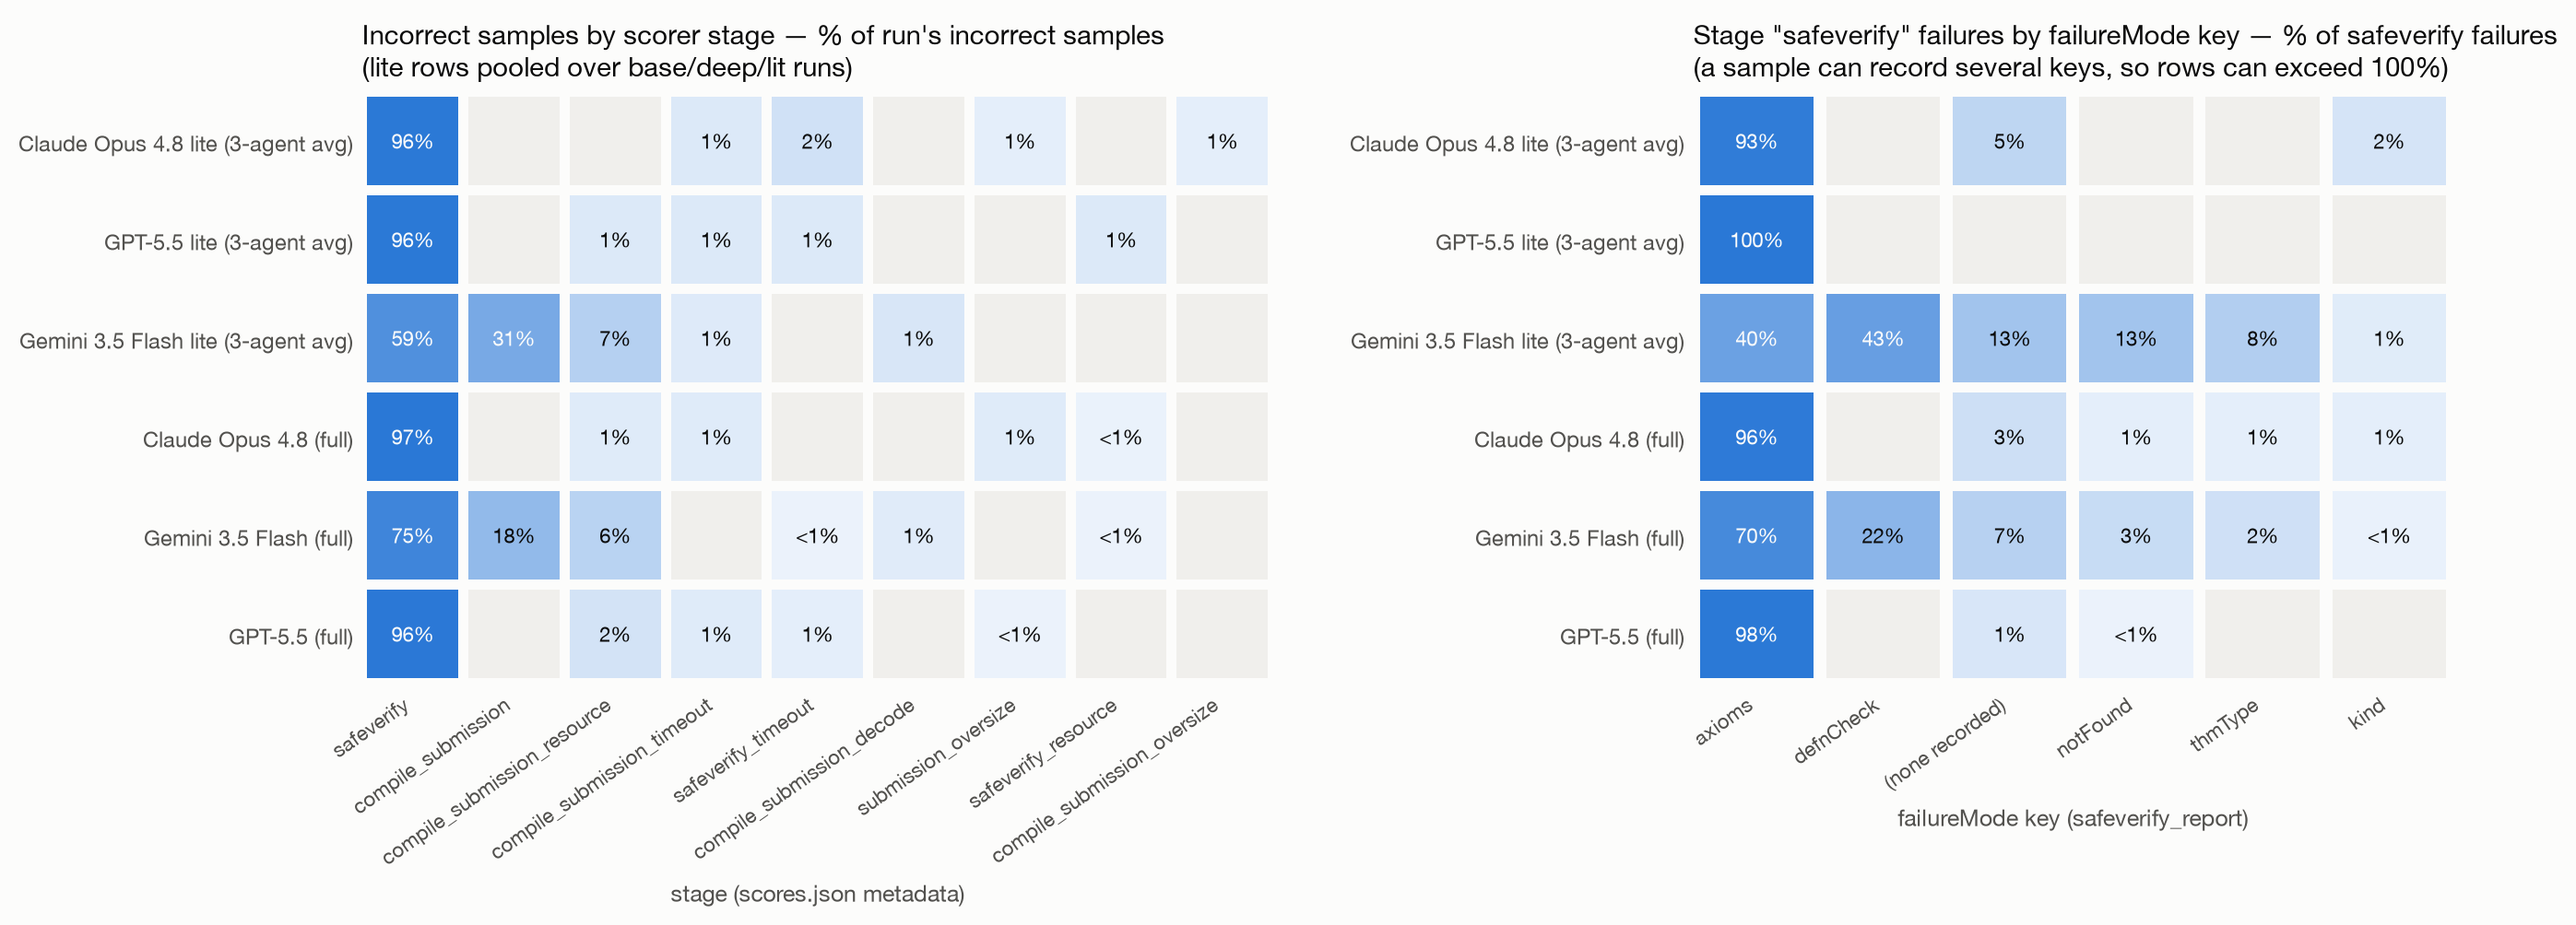
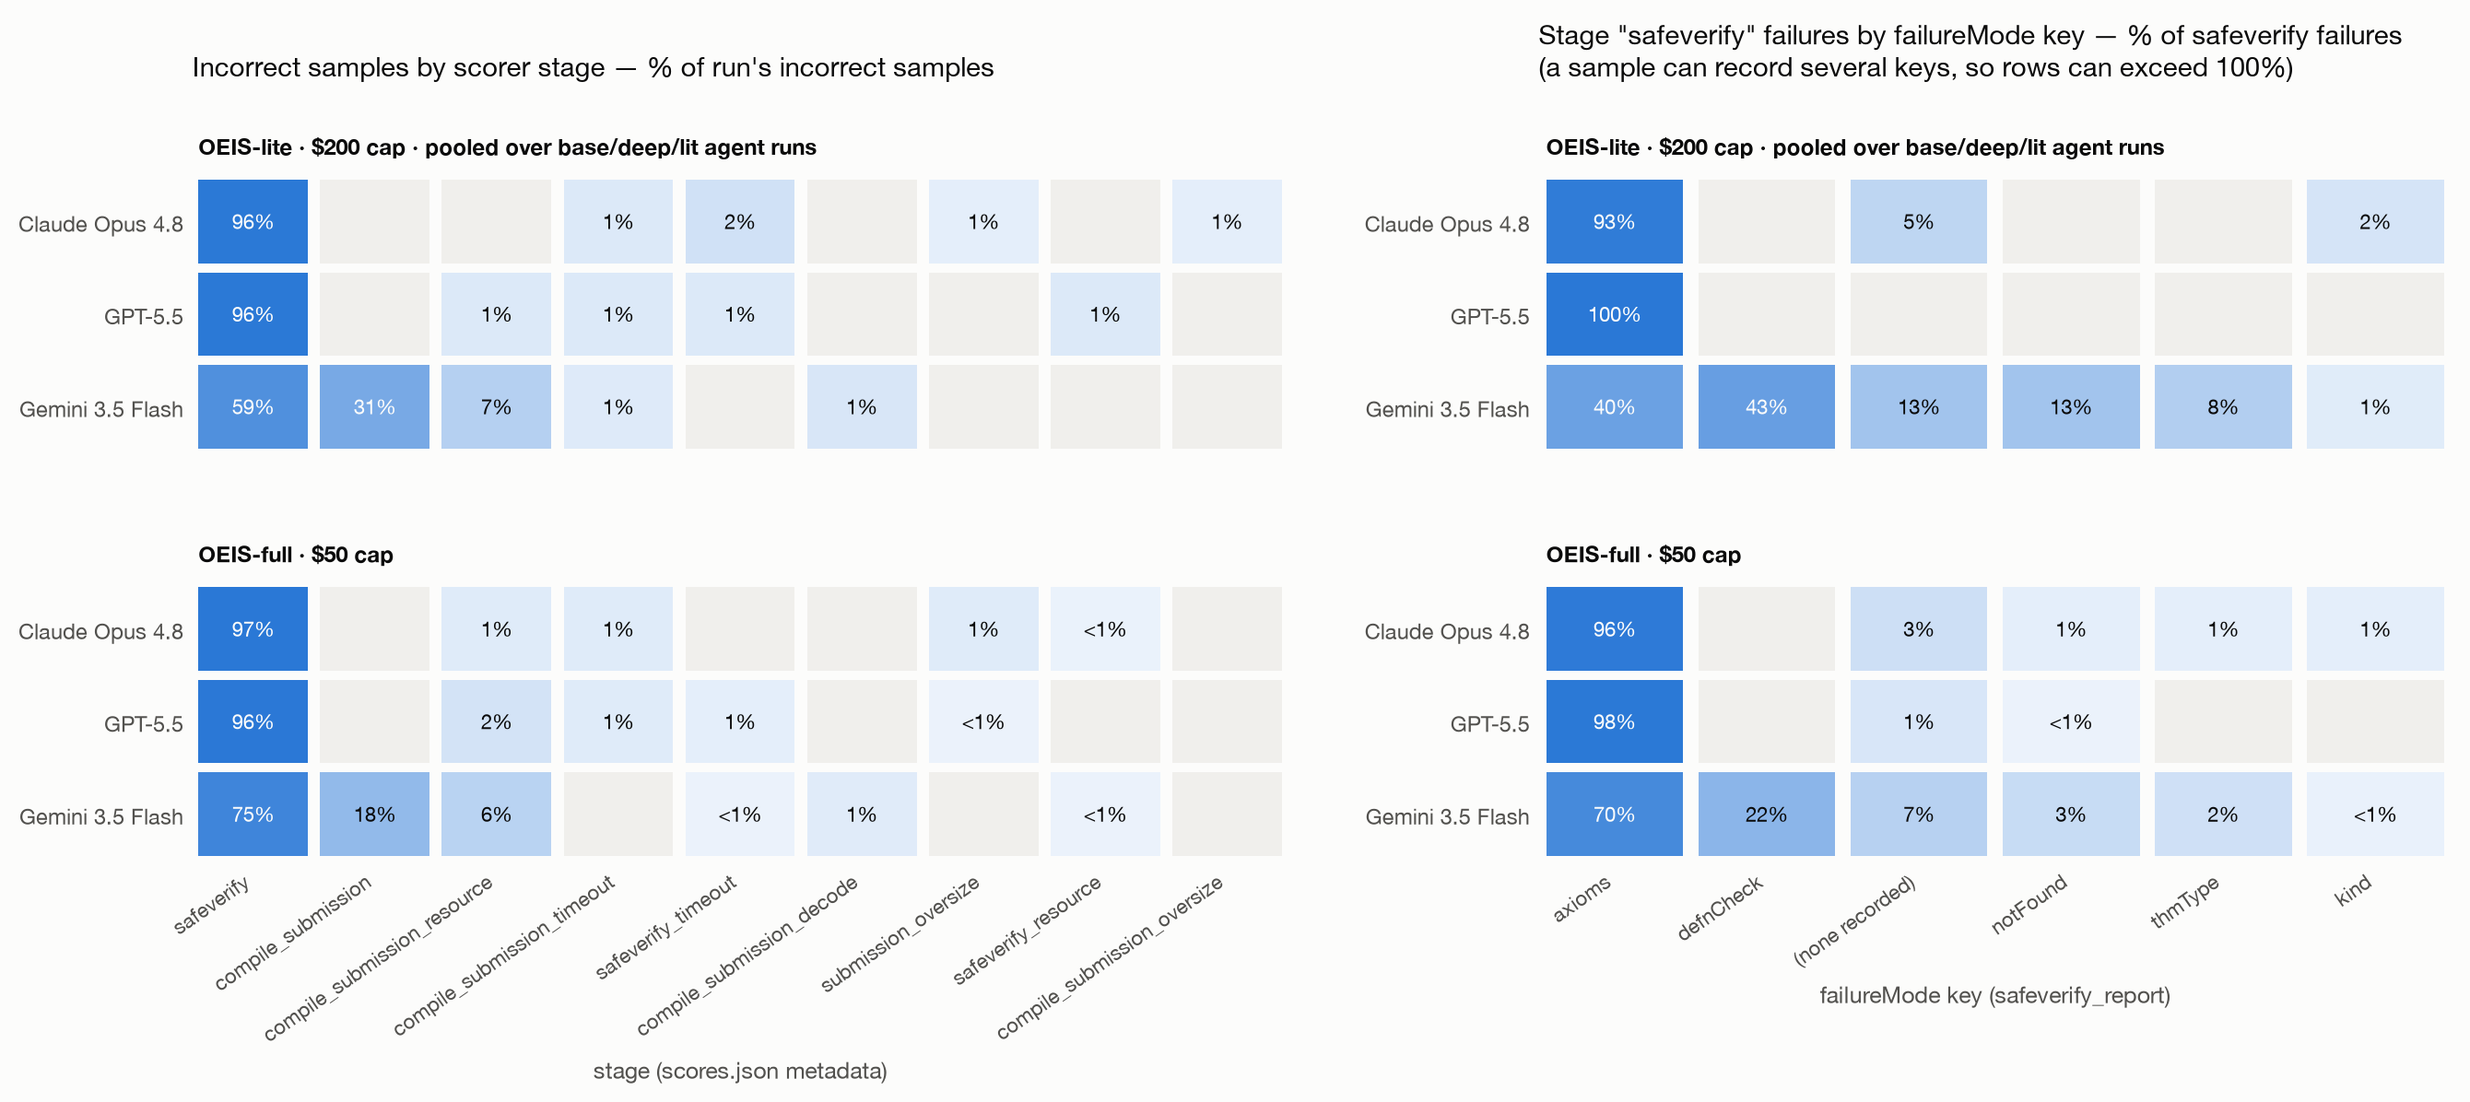
Improve sample-plot design: eval-set labels, model order, cost annotations

diff --git a/plots/make_sample_plots.py b/plots/make_sample_plots.py
@@ -84,7 +84,8 @@ for top in sorted(LOGS.glob("*/*_plaintext/scores.json")):
         )
 
 lite_keys = [("lite", 200, v, p) for p in PROVIDERS for v in VARIANTS if ("lite", 200, v, p) in samples]
-full_keys = [k for k in samples if k[0] == "full"]
+full_keys = sorted((k for k in samples if k[0] == "full"),
+                   key=lambda k: PROVIDERS.index(k[3]))
 
 def run_label(key, multiline=False):
     task, budget, variant, provider = key
@@ -99,8 +100,12 @@ nsolved = {s: {p: sum(samples[k][s]["solved"] for k in lite_by_model[p])
                for p in PROVIDERS} for s in lite_samples}
 ever = [s for s in lite_samples if any(nsolved[s].values())]
 never = [s for s in lite_samples if not any(nsolved[s].values())]
-ever.sort(key=lambda s: (-sum(nsolved[s].values()),
-                         tuple(-nsolved[s][p] for p in PROVIDERS)))
+# sort by mean cost across all solving runs, cheapest first
+def mean_solve_cost(s):
+    costs = [samples[k][s]["cost"] for k in lite_keys if samples[k][s]["solved"]]
+    return sum(costs) / len(costs)
+
+ever.sort(key=lambda s: (mean_solve_cost(s), -sum(nsolved[s].values())))
 
 ids = [samples[lite_keys[0]][s]["oeis_id"] for s in ever]
 counts = Counter(ids)
@@ -118,18 +123,37 @@ def mix(hex_color, frac, base=NEUTRAL):
 SHADE = {0: None, 1: 0.42, 2: 0.68, 3: 1.0}
 ncol, nrow = len(PROVIDERS), len(ever)
 fig, ax = plt.subplots(figsize=(5.2, 0.19 * nrow + 2.4))
+def luminance(rgb):
+    r, g, b = (ch / 12.92 if ch <= 0.04045 else ((ch + 0.055) / 1.055) ** 2.4
+               for ch in rgb)
+    return 0.2126 * r + 0.7152 * g + 0.0722 * b
+
 for r, s in enumerate(ever):
     for c, p in enumerate(PROVIDERS):
         n = nsolved[s][p]
         color = NEUTRAL if n == 0 else mix(SERIES[p], SHADE[n])
         ax.add_patch(Rectangle((c + 0.06, nrow - 1 - r + 0.06), 0.88, 0.88,
                                facecolor=color, edgecolor="none"))
-        if 0 < n < 3:
-            ax.text(c + 0.5, nrow - 1 - r + 0.5, f"{n}/3", ha="center",
-                    va="center", fontsize=6.5, color=INK)
+        if n > 0:
+            solve_costs = [samples[k][s]["cost"] for k in lite_by_model[p]
+                           if samples[k][s]["solved"]]
+            mean_cost = sum(solve_costs) / len(solve_costs)
+            cost_txt = f"${mean_cost:,.0f}" if mean_cost >= 0.95 else "<$1"
+            ax.text(c + 0.82, nrow - 1 - r + 0.5, cost_txt,
+                    ha="right", va="center", fontsize=6.5,
+                    color=SURFACE if luminance(color) < 0.35 else INK)
 ax.set_xlim(0, ncol)
-ax.set_ylim(-1.6, nrow)
+ax.set_ylim(-1.6, nrow + 1.5)
 ax.set_aspect("auto")
+# swatch legend: shading encodes how many of the 3 agent configs solved
+lx = 0.05
+for n, lbl in [(3, "solved by 3/3 agents"), (2, "2/3"), (1, "1/3"), (0, "0/3")]:
+    swatch = NEUTRAL if n == 0 else mix(SERIES["ant"], SHADE[n])
+    ax.add_patch(Rectangle((lx, nrow + 0.45), 0.09, 0.6,
+                           facecolor=swatch, edgecolor="none"))
+    ax.text(lx + 0.13, nrow + 0.75, lbl, ha="left", va="center",
+            fontsize=7.5, color=INK2)
+    lx += 0.13 + 0.042 * len(lbl) + 0.1
 ax.set_yticks([nrow - 1 - r + 0.5 for r in range(nrow)])
 ax.set_yticklabels(labels, fontsize=6.8, color=INK2)
 ax.set_xticks([c + 0.5 for c in range(ncol)])
@@ -142,8 +166,9 @@ for side in ("top", "right", "left", "bottom"):
     ax.spines[side].set_visible(False)
 ax.tick_params(length=0)
 ax.set_title(f"OEIS-lite — which conjectures each model solved\n"
-             f"({len(ever)} conjectures solved by ≥1 run; cell = how many of the\n"
-             f"3 agent configs (base/deep/lit) solved it; $200 budget/sample)",
+             f"({len(ever)} conjectures solved by ≥1 run; cell label = mean cost\n"
+             f"of the solving runs; rows sorted by mean solve cost;\n"
+             f"$200 budget/sample)",
              fontsize=10.5, loc="left", color=INK, pad=14)
 fig.tight_layout()
 fig.savefig(OUT / "solve_matrix.png", dpi=200, bbox_inches="tight")
@@ -152,8 +177,8 @@ print("wrote", OUT / "solve_matrix.png")
 # === plot 2: solved fraction vs spend ======================================
 fig, ax = plt.subplots(figsize=(8.2, 4.8))
 # full runs individually; lite runs pooled over the 3 agent configs per model
-curves = [([k], f"{MODEL_LABELS[k[3]]} (full)", "-") for k in full_keys]
-curves += [(lite_by_model[p], f"{MODEL_LABELS[p]} lite, 3-agent avg", (0, (4, 2)))
+curves = [([k], f"OEIS-full · {MODEL_LABELS[k[3]]}", "-") for k in full_keys]
+curves += [(lite_by_model[p], f"OEIS-lite · {MODEL_LABELS[p]}, 3-agent avg", (0, (4, 2)))
            for p in PROVIDERS if lite_by_model[p]]
 for keys, label, style in curves:
     n = sum(len(samples[k]) for k in keys)
@@ -196,10 +221,12 @@ fig.savefig(OUT / "solve_cost_curves.png", dpi=200)
 print("wrote", OUT / "solve_cost_curves.png")
 
 # === plot 3: scoring metadata for incorrect samples ========================
-# rows: lite averaged over the 3 agent configs per model, full runs as-is
-row_defs = [(lite_by_model[p], f"{MODEL_LABELS[p]} lite (3-agent avg)")
-            for p in PROVIDERS if lite_by_model[p]]
-row_defs += [([k], f"{MODEL_LABELS[k[3]]} (full)") for k in full_keys]
+# blocks of rows: lite pooled over the 3 agent configs per model, full runs as-is
+lite_rows = [(lite_by_model[p], MODEL_LABELS[p]) for p in PROVIDERS if lite_by_model[p]]
+full_rows = [([k], MODEL_LABELS[k[3]]) for k in full_keys]
+blocks = [("OEIS-lite · $200 cap · pooled over base/deep/lit agent runs", lite_rows),
+          ("OEIS-full · $50 cap", full_rows)]
+row_defs = lite_rows + full_rows
 
 def pooled_shares(keys, extract):
     """Counts pooled over the runs, as a share of the pooled denominator."""
@@ -231,28 +258,45 @@ def col_order(rows):
 stages = col_order(stage_counts)
 modes = col_order(mode_counts)
 
+HEADER_H, ROW_H, GAP_H = 0.9, 1.0, 0.5
+
 def count_matrix(ax, cols, rows, title, xlabel):
-    nr, nc = len(rows), len(cols)
+    nc = len(cols)
     maxv = max(v for d in rows for v in d.values())
-    for r, d in enumerate(rows):
-        for c, col in enumerate(cols):
-            v = d.get(col, 0)
-            if v:
-                frac = (v / maxv) ** 0.4  # perceptual-ish ramp for skewed counts
-                color = plt.matplotlib.colors.to_rgb("#2a78d6")
-                bg = tuple(1 - frac * (1 - ch) for ch in color)
-                txt = f"{v:.0%}" if v >= 0.005 else "<1%"
-                ax.add_patch(Rectangle((c + 0.05, nr - 1 - r + 0.05), 0.9, 0.9,
-                                       facecolor=bg, edgecolor="none"))
-                ax.text(c + 0.5, nr - 1 - r + 0.5, txt, ha="center", va="center",
-                        fontsize=8, color=SURFACE if frac > 0.62 else INK)
-            else:
-                ax.add_patch(Rectangle((c + 0.05, nr - 1 - r + 0.05), 0.9, 0.9,
-                                       facecolor=NEUTRAL, edgecolor="none"))
+    total_h = sum(HEADER_H + len(rws) * ROW_H for _, rws in blocks) \
+        + GAP_H * (len(blocks) - 1)
+    y = total_h
+    ridx = 0
+    yticks, ylabels = [], []
+    for header, rws in blocks:
+        y -= HEADER_H
+        ax.text(0.05, y + 0.22, header, fontsize=8.5, color=INK,
+                fontweight="bold", ha="left")
+        for _, label in rws:
+            y -= ROW_H
+            d = rows[ridx]
+            for c, col in enumerate(cols):
+                v = d.get(col, 0)
+                if v:
+                    frac = (v / maxv) ** 0.4  # perceptual-ish ramp for skewed shares
+                    color = plt.matplotlib.colors.to_rgb("#2a78d6")
+                    bg = tuple(1 - frac * (1 - ch) for ch in color)
+                    txt = f"{v:.0%}" if v >= 0.005 else "<1%"
+                    ax.add_patch(Rectangle((c + 0.05, y + 0.05), 0.9, 0.9,
+                                           facecolor=bg, edgecolor="none"))
+                    ax.text(c + 0.5, y + 0.5, txt, ha="center", va="center",
+                            fontsize=8, color=SURFACE if frac > 0.62 else INK)
+                else:
+                    ax.add_patch(Rectangle((c + 0.05, y + 0.05), 0.9, 0.9,
+                                           facecolor=NEUTRAL, edgecolor="none"))
+            yticks.append(y + 0.5)
+            ylabels.append(label)
+            ridx += 1
+        y -= GAP_H
     ax.set_xlim(0, nc)
-    ax.set_ylim(0, nr)
-    ax.set_yticks([nr - 1 - r + 0.5 for r in range(nr)])
-    ax.set_yticklabels([label for _, label in row_defs], fontsize=8.5)
+    ax.set_ylim(0, total_h)
+    ax.set_yticks(yticks)
+    ax.set_yticklabels(ylabels, fontsize=8.5)
     ax.set_xticks([c + 0.5 for c in range(nc)])
     ax.set_xticklabels(cols, fontsize=8, rotation=35, ha="right")
     for side in ("top", "right", "left", "bottom"):
@@ -261,11 +305,11 @@ def count_matrix(ax, cols, rows, title, xlabel):
     ax.set_title(title, fontsize=10.5, loc="left", color=INK)
     ax.set_xlabel(xlabel, fontsize=9, color=INK2)
 
-fig, (axa, axb) = plt.subplots(1, 2, figsize=(13.5, 0.42 * len(row_defs) + 2.6),
+nrows_drawn = len(row_defs) + len(blocks) * HEADER_H + (len(blocks) - 1) * GAP_H
+fig, (axa, axb) = plt.subplots(1, 2, figsize=(13.5, 0.42 * nrows_drawn + 2.6),
                                gridspec_kw={"width_ratios": [len(stages), len(modes) + 1.5]})
 count_matrix(axa, stages, stage_counts,
-             "Incorrect samples by scorer stage — % of run's incorrect samples\n"
-             "(lite rows pooled over base/deep/lit runs)",
+             "Incorrect samples by scorer stage — % of run's incorrect samples",
              "stage (scores.json metadata)")
 count_matrix(axb, modes, mode_counts,
              'Stage "safeverify" failures by failureMode key — % of safeverify failures\n'
